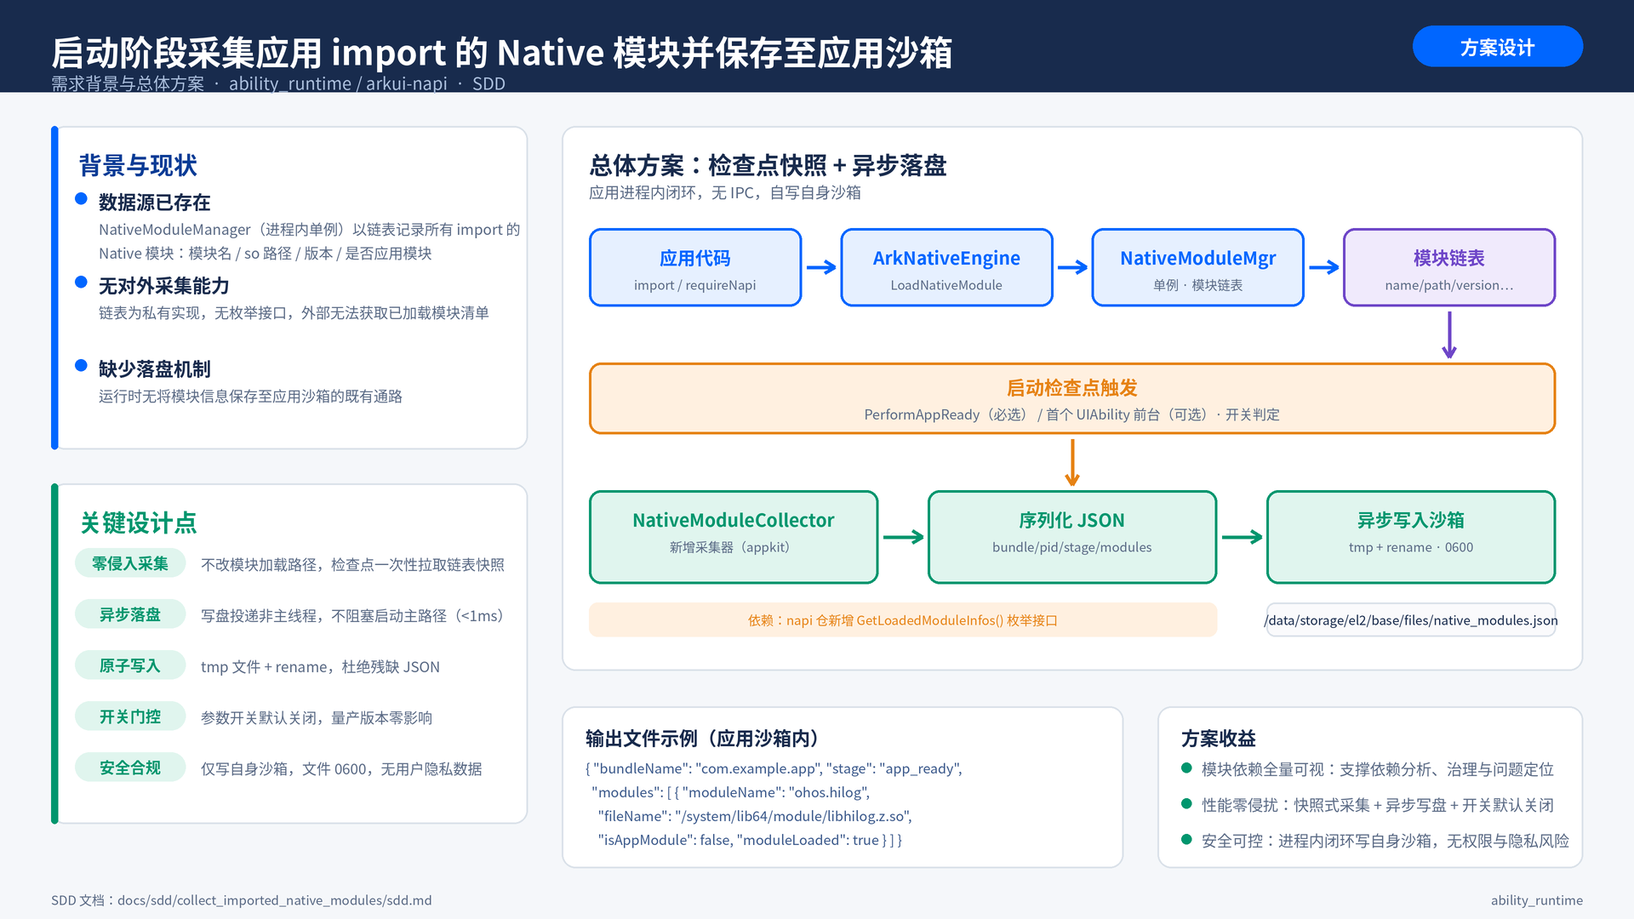
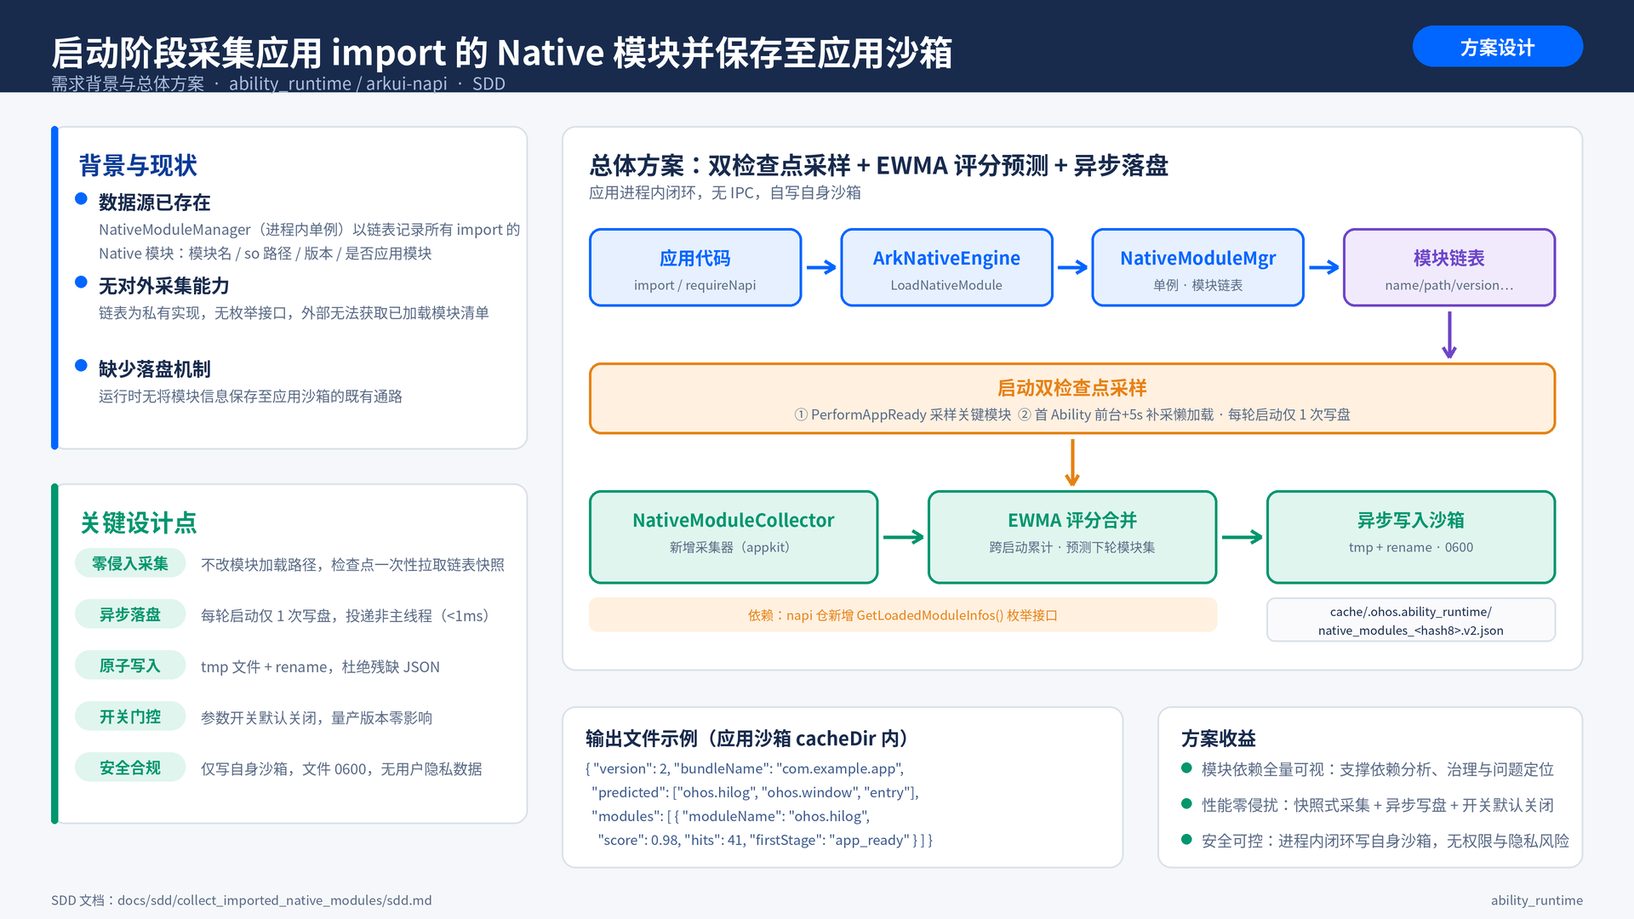
docs: refine SDD v2 - cacheDir storage, anti-collision naming, EWMA update strategy
- 输出位置由 files 改为 cacheDir（可重建的预测性缓存语义）
- 文件名防冲突：.ohos.ability_runtime/native_modules_<processHash8>.v2.json
- 新增跨启动更新与预测策略：双检查点采样 + EWMA 评分合并 + 阈值预测集，
  每轮启动仅 1 次原子写盘；应用升级/文件损坏/缓存清理均兜底重建
- 同步更新 TDD 用例（评分合并、衰减淘汰、升级重置等 13 项策略用例）
- 同步更新 SVG/PNG 方案图

AI[100%] Human Fixed[0%] Human[0%] AI Adopted[100%]

diff --git a/docs/sdd/collect_imported_native_modules/sdd.md b/docs/sdd/collect_imported_native_modules/sdd.md
@@ -1,10 +1,13 @@
 # SDD：启动阶段采集应用 import 的 Native 模块并保存至应用沙箱
 
+> 版本：v2（2026-07-27）
+> 变更：输出位置改为 cacheDir、文件名防冲突设计、新增跨启动更新与预测策略
+
 ## 1. 需求分析
 
 ### 1.1 需求描述
 
-在应用**启动阶段**，通过 `NativeModuleManager`（进程内单例，位于 `foundation/arkui/napi`）采集该应用进程 `import`/`requireNapi` 加载过的所有 Native 模块信息，并以文件形式保存到**应用自身沙箱**目录。
+在应用**启动阶段**，通过 `NativeModuleManager`（进程内单例，位于 `foundation/arkui/napi`）采集该应用进程 `import`/`requireNapi` 加载过的所有 Native 模块信息，保存到**应用自身沙箱 cacheDir**；文件按**跨启动更新策略**维护，使其内容尽可能准确**预测下一次启动将加载的模块集合**。
 
 ### 1.2 现状与可行性
 
@@ -14,42 +17,48 @@
 | 枚举接口 | **无对外枚举接口**，链表头尾指针是 private 成员 | 需新增 public API（跨仓修改 `arkui/napi`） |
 | import 入口 | 所有 import 均汇聚到 `ArkNativeEngine::LoadNativeModule` → `NativeModuleManager::LoadNativeModule`（系统模块 + 应用模块同路径） | 单点覆盖全部 import 行为 |
 | 写入者 | 沙箱属应用自身，NativeModuleManager 在应用进程内 | **无需 IPC**，应用进程自写自身沙箱，无权限问题 |
-| 沙箱路径 | 框架侧可经 `ContextDeal::GetDataDir()` / `ContextImpl::GetBaseDir()` 得 `/data/storage/el2/base`；已有先例：`DumpRuntimeHelper` 写 `/data/storage/el2/base/cache` | 路径获取方式成熟 |
+| cacheDir 获取 | `ContextImpl::GetCacheDir()`（`context_impl.cpp:167`）→ `/data/storage/el2/base/cache`；已有先例：`DumpRuntimeHelper` 写该目录 | 路径获取方式成熟 |
 | 启动阶段锚点 | `MainThread::HandleLaunchApplication` → `Runtime::Create` → `ApplicationImpl::PerformAppReady()`（`application_impl.cpp:51`，状态转 `APP_STATE_READY`） | 有明确的"启动完成"回调点 |
 
-### 1.3 关键需求决策点（需明确）
+### 1.3 需求决策点（v2 已确认）
 
-1. **采集时点**：模块是**按需懒加载**的——`PerformAppReady` 时只有启动链路加载的模块，首个 Ability `onWindowStageCreate` 后才有 UI 相关模块。建议定义为"启动阶段结束 = 首个 UIAbility 前台后"，或分两次采集（ready 时 + 首个 ability 前台时）合并写盘。
-2. **预加载（preload/fork）语义**：`ETSRuntime::PreFork` 在预孵化进程加载的系统模块会被 fork 进每个应用进程。"应用 import 过的模块"是否包含这些？建议全量记录（它们确实在应用进程地址空间内），但可增加 `isPreloaded` 区分标记（fork 前快照计数，fork 后比对）。
-3. **文件格式与位置**：建议 JSON，路径 `/data/storage/el2/base/files/native_modules.json`（或 `cache/` 下，视是否允许系统清理而定）。
-4. **开关**：必须有参数/特性开关门控，默认关闭或仅 debug 版本开启，避免影响量产版本启动性能。
+| # | 决策点 | v2 结论 |
+|---|--------|---------|
+| 1 | 保存位置 | **cacheDir**（`/data/storage/el2/base/cache/`）——数据本质是"可重建的预测性缓存"，语义与 cache 一致；系统清理后下一轮启动重建，无功能损失 |
+| 2 | 文件命名 | **复杂化、系统托管风格**：隐藏点目录 + 命名空间 + 进程哈希 + 格式版本，见 3.2 |
+| 3 | 采集时点 | 双检查点采样：PerformAppReady（启动关键模块）+ 首个 UIAbility 前台后延迟/首次后台（懒加载模块），**每轮启动仅 1 次原子写盘** |
+| 4 | 更新策略 | **EWMA 评分 + 阈值预测**，跨启动增量合并，见 3.4 |
+| 5 | preload 语义 | 全量记录（预加载模块确实在应用进程地址空间），不区分来源 |
+| 6 | 开关 | 参数开关门控，默认关闭或仅 debug 版本开启 |
 
 ### 1.4 约束
 
 - **跨仓依赖**：核心数据源在 `foundation/arkui/napi`，ability_runtime 无法独立完成，需 napi 仓先合入枚举接口。
-- **性能**：采集+写盘必须异步（投递到非主线程或延迟任务），不得阻塞启动主路径。
+- **性能**：采集与写盘必须异步（投递到非主线程），每轮启动至多 1 次落盘，不得阻塞启动主路径。
 - **安全**：仅写自身沙箱；文件权限 `0600`；不写敏感信息（路径属公开信息，风险低）。
+- **可重建**：文件必须允许被系统缓存清理删除，删除后按冷启动逻辑重建，不得影响功能。
 
 ## 2. 总体设计
 
 ```
-应用进程
-┌─────────────────────────────────────────────────────┐
-│ MainThread::HandleLaunchApplication                  │
-│   └─ Runtime::Create → JsRuntime/ETSRuntime 初始化   │
-│        └─ requireNapi 绑定 → ArkNativeEngine          │
-│             └─ NativeModuleManager::LoadNativeModule │  ← 模块进链表（现有行为）
-│                                                      │
-│ PerformAppReady / 首个Ability前台  ──触发──►          │
-│   NativeModuleCollector（新增，appkit 侧）            │
-│     ├─ NativeModuleManager::GetLoadedModuleInfos()   │  ← napi 仓新增 API
-│     ├─ 序列化为 JSON                                  │
-│     └─ 异步写 /data/storage/el2/base/files/          │
-│         native_modules.json（tmp + rename 原子写）    │
-└─────────────────────────────────────────────────────┘
+应用进程（每轮启动）
+┌────────────────────────────────────────────────────────────┐
+│ Runtime::Create → requireNapi → ArkNativeEngine             │
+│   └─ NativeModuleManager::LoadNativeModule → 模块链表（现有） │
+│                                                             │
+│ 检查点① PerformAppReady ──► Collector 采样（stage=app_ready）│
+│ 检查点② 首Ability前台+延迟/首次后台 ──► 采样（stage=late）    │
+│                                                             │
+│ NativeModuleCollector（新增，appkit 侧）                     │
+│   ├─ NativeModuleManager::GetLoadedModuleInfos()  ← napi 新增│
+│   ├─ 读取旧 native_modules 文件 → EWMA 评分合并（3.4）        │
+│   ├─ 预计算 predicted 预测集（score ≥ 阈值）                  │
+│   └─ 异步原子写 cacheDir/.ohos.ability_runtime/             │
+│       native_modules_<processHash>.v2.json（tmp + rename）   │
+└────────────────────────────────────────────────────────────┘
 ```
 
-**方案要点**：不改动加载路径、不加每次加载的钩子（零性能侵入），仅在检查点**一次性拉取**链表快照并异步落盘。
+**方案要点**：不改动加载路径、不加加载钩子（零性能侵入）；检查点快照采样；跨启动评分合并使文件收敛为"高置信预测集"。
 
 ## 3. 详细设计
 
@@ -81,75 +90,193 @@ public:
 ```cpp
 class NativeModuleCollector {
 public:
-    // 在启动检查点调用；内部判开关、取沙箱路径、异步写盘
-    static void CollectAndSave(const std::string& dataDir);
+    // 检查点①：采样并缓存启动关键模块（不写盘）
+    static void SampleAtAppReady();
+    // 检查点②：采样懒加载模块，合并评分，异步原子写盘（每轮启动唯一写盘）
+    static void CollectMergeAndSave();
 private:
-    static bool IsEnabled();              // 读参数/特性开关
-    static std::string Serialize(const std::vector<NativeModuleInfo>& infos);
+    struct ModuleStat;                // 评分条目，见 3.4
+    static bool IsEnabled();          // 参数/特性开关
+    static std::string GetStorePath();// cacheDir + 防冲突文件名，见 3.2
+    static bool LoadStats(std::map<std::string, ModuleStat>& stats, int64_t& appVer);
+    static void MergeRound(const std::vector<NativeModuleInfo>& round,
+                           std::map<std::string, ModuleStat>& stats);
+    static std::string Serialize(const std::map<std::string, ModuleStat>& stats);
     static bool WriteAtomic(const std::string& path, const std::string& content);
 };
 ```
 
-### 3.2 输出文件格式
+### 3.2 输出位置与文件命名（v2 变更）
 
-`/data/storage/el2/base/files/native_modules.json`：
+**目录**：`Context::GetCacheDir()` →
 
-```json
-{
-  "bundleName": "com.example.app",
-  "pid": 12345,
-  "collectTime": 1753507200000,
-  "stage": "app_ready",
-  "modules": [
-    {
-      "moduleName": "ohos.hilog",
-      "name": "hilog",
-      "fileName": "/system/lib64/module/libhilog.z.so",
-      "version": 1,
-      "isAppModule": false,
-      "moduleLoaded": true
-    },
-    {
-      "moduleName": "entry",
-      "name": "entry",
-      "fileName": "/data/storage/el1/bundle/entry/libs/arm64/libentry.so",
-      "version": 1,
-      "isAppModule": true,
-      "moduleLoaded": true
-    }
-  ]
-}
+| 应用类型 | 实际路径 |
+|---------|---------|
+| 普通应用 | `/data/storage/el2/base/cache/` |
+| 系统应用 | `/data/app/el2/<userId>/base/<bundleName>/cache/` |
+
+**文件名**：
+
+```
+<cacheDir>/.ohos.ability_runtime/native_modules_<processHash8>.v2.json
 ```
 
-### 3.3 触发点与时序
+防冲突设计（与开发者文件隔离）：
+
+| 设计 | 作用 |
+|------|------|
+| 点前缀隐藏目录 `.ohos.ability_runtime/` | 明确"系统托管文件"语义；开发者约定不使用的命名空间；常规文件浏览不可见 |
+| `native_modules_` 前缀 + 模块语义 | 可读性，便于调试定位 |
+| `<processHash8>` 进程名哈希（FNV-1a，8 位 hex） | 多进程应用（:remote 等子进程）各自采集互不覆盖；避免超长进程名撑爆文件名 |
+| `.v2` 格式版本后缀 | 格式演进时新旧文件天然隔离，解析方按版本路由 |
+| 文件权限 `0600` | 仅应用自身可读写 |
+
+**cache 语义**：系统/用户清理缓存后文件丢失 → 视为冷启动（3.4），下一轮启动全量重建，预测准确度暂降后随启动轮次快速收敛，无功能损失。
+
+### 3.3 触发点与采样时序
 
 ```
 Runtime::Create (main_thread.cpp:1951)
   → 业务代码执行，模块陆续 import（进链表）
   → PerformAppReady (application_impl.cpp:51)
-      → NativeModuleCollector::CollectAndSave()   ← 检查点1（标记 stage=app_ready）
-  → 首个 UIAbility 前台（可选检查点2，增量合并后重写，stage=first_foreground）
+      → Collector::SampleAtAppReady()        ← 检查点①：内存采样，stage=app_ready
+  → 首个 UIAbility 前台 + 延迟（约 5s）或首次 OnBackground
+      → Collector::CollectMergeAndSave()     ← 检查点②：补采 stage=late，
+                                                 读旧文件 → 评分合并 → 原子写盘
 ```
 
-- 检查点1必选；检查点2视需求 1.3 决策点 1 而定。
-- 写盘投递到非主线程（可参考 `MainThread` 现有 task runner 或新建一次性 detached task）。
-- **preload 场景**：fork 后进程已有预加载模块链表。若需区分，在 `PreFork` 时记录链表节点数快照，`PostFork` 后节点标记为应用期加载；否则全量记录即可。
+- **每轮启动仅 1 次落盘**（检查点②）。①崩溃丢样本可接受（统计模型对单轮缺失鲁棒）。
+- 采样为纯内存操作（持锁遍历链表 + 字符串拷贝），两次合计 < 1ms；写盘投递非主线程。
+- 延迟窗口覆盖首帧后的懒加载模块（UI 组件、图片编解码等通常在 `onWindowStageCreate` 后才 import）。
 
-### 3.4 异常与边界处理
+### 3.4 跨启动更新与预测策略（v2 核心）
+
+**问题**：每次启动加载的模块集合不完全一致——入口场景不同（launcher / deep-link / 卡片）、懒加载时机抖动。单轮快照作为预测会抖动、漏报。
+
+**方案**：跨启动**指数加权移动平均（EWMA）评分**，文件内容从"上一轮快照"演进为"带置信度的预测集"。
+
+#### 数据模型
+
+每个模块维护一个统计条目：
+
+```cpp
+struct ModuleStat {
+    std::string fileName;      // so 路径
+    bool isAppModule;
+    float score;               // ∈ [0,1]，EWMA 命中评分
+    uint32_t hits;             // 累计命中轮数
+    uint32_t lastSeenLaunch;   // 最后一次命中的启动序号
+    uint8_t firstStage;        // 首次出现阶段：app_ready / late
+};
+```
+
+#### 更新算法（每轮启动执行一次）
+
+设本轮实际加载集合为 S_n（检查点① ∪ ②），α = 0.4（约最近 5 轮主导，可调）：
+
+```
+对 m ∈ S_n：        score ← α + (1−α)·score      // 命中奖励，快速逼近 1
+对 m ∈ 历史 \ S_n：  score ← (1−α)·score          // 遗漏衰减，缓慢趋向 0
+lastSeenLaunch 命中时刷新为当前启动序号
+```
+
+#### 预测与淘汰
+
+| 规则 | 内容 |
+|------|------|
+| **预测集** | `predicted = { m \| score ≥ 0.5 }`，写盘时预计算输出，读方零成本直接使用 |
+| **冷启动** | 首轮（无旧文件/文件被清理）：S_1 全部 score=1，直接全量入预测集 |
+| **条目淘汰** | `score < 0.05` 或连续 16 轮未见 → 删除条目，文件规模有界 |
+| **条数上限** | 1024 条，超出按 score 升序淘汰（防御异常膨胀） |
+| **应用升级** | 记录 `appVersionCode`，不一致 → 清空重建（升级后模块集合可能剧变，历史无参考价值） |
+| **损坏兜底** | JSON 解析失败 / version 字段不符 → 丢弃按冷启动重建 |
+
+#### 策略参数（支持系统参数调优）
+
+| 参数 | 默认 | 说明 |
+|------|------|------|
+| α（EWMA 系数） | 0.4 | 越大越"短视"（跟随最近几轮），越小越平滑 |
+| 预测阈值 | 0.5 | 提高则预测集更保守（低误报高漏报） |
+| 淘汰窗口 | 16 轮 | 长期未命中条目清理周期 |
+| 检查点②延迟 | 5 s | 首个 Ability 前台后的补采等待 |
+
+#### 收敛行为示例
+
+- 每轮必载模块：3 轮后 score ≈ 0.94，稳定留在预测集；
+- 偶发模块（30% 概率加载）：score 在 0.3~0.5 间波动，被阈值挡在预测集外（避免误报）；
+- 某版本后不再加载的模块：约 5 轮后 score < 0.1，7~8 轮后淘汰。
+
+#### 准确性验证
+
+beta 期间每轮启动通过 HiLog/HiSysEvent 上报：
+
+- 命中率 `hitRate = |predicted ∩ actual| / |actual|`（目标 ≥ 95%）
+- 误报率 `falseRate = |predicted − actual| / |predicted|`
+
+用于标定 α 与阈值；量产版本关闭上报。
+
+### 3.5 输出文件格式（v2）
+
+`<cacheDir>/.ohos.ability_runtime/native_modules_a1b2c3d4.v2.json`：
+
+```json
+{
+  "version": 2,
+  "bundleName": "com.example.app",
+  "processName": "com.example.app",
+  "appVersionCode": 1000000,
+  "launchIndex": 42,
+  "updatedAt": 1753507200000,
+  "scenario": "launcher",
+  "predicted": ["ohos.hilog", "ohos.window", "entry"],
+  "modules": [
+    {
+      "moduleName": "ohos.hilog",
+      "fileName": "/system/lib64/module/libhilog.z.so",
+      "isAppModule": false,
+      "score": 0.98,
+      "hits": 41,
+      "lastSeenLaunch": 42,
+      "firstStage": "app_ready"
+    },
+    {
+      "moduleName": "entry",
+      "fileName": "/data/storage/el1/bundle/entry/libs/arm64/libentry.so",
+      "isAppModule": true,
+      "score": 1.0,
+      "hits": 42,
+      "lastSeenLaunch": 42,
+      "firstStage": "app_ready"
+    }
+  ]
+}
+```
+
+字段说明：
+
+- `predicted`：按 3.4 阈值预计算的**下轮启动预测模块集**（读方主消费字段）
+- `modules[].score/hits/lastSeenLaunch`：评分状态，跨轮累计
+- `firstStage`：模块首次出现阶段，读方可区分"启动关键"与"懒加载"
+- `scenario`：本轮启动入口场景（launcher/deep-link/card 等），v2 仅记录；后续版本可按场景分桶多份 profile 进一步提升预测准确度（见 5.演进方向）
+
+### 3.6 异常与边界处理
 
 | 场景 | 处理 |
 |------|------|
-| 开关关闭 | 直接返回，零开销 |
-| 沙箱目录不存在 | `mkdirs`，失败记 HiLog 并放弃（不抛错，不影响启动） |
-| 写盘失败 | 记 `TAG_LOGE` + 可选 HiSysEvent 故障事件（参考 `preload_so_startup_task.cpp:134` 的 `EventReport` 模式） |
-| 模块链表为空 | 写空 `modules: []`（合法输出，便于排查） |
-| 文件体积 | 模块数量级为数十~数百，KB 级，无需截断；但建议设上限（如 1MB）防御异常膨胀 |
-| 并发 | 写盘用 `tmp 文件 + rename` 保证原子性；同进程多次检查点写同一文件，后写覆盖 |
+| 开关关闭 | 直接返回，零开销（不采样、不读写） |
+| cacheDir 不存在 | `CreateDirIfNotExist`（含 `.ohos.ability_runtime` 子目录），失败记 HiLog 放弃，不影响启动 |
+| 文件被缓存清理 | 视为冷启动，首轮全量重建 |
+| JSON 损坏 / version 不符 | 丢弃旧数据，按冷启动重建 |
+| 应用升级（appVersionCode 变化） | 清空历史重建 |
+| 写盘失败 | 记 `TAG_LOGE` + HiSysEvent 故障事件（参考 `preload_so_startup_task.cpp:134` 的 `EventReport` 模式）；旧文件保持原样（tmp+rename 保证） |
+| 多进程并发 | 各进程写各自 `<processHash8>` 文件，无共享文件竞争 |
+| 文件体积 | 条目上限 1024 + 淘汰规则，稳态约数十~数百 KB 级以内（实测通常 < 100KB） |
 
-### 3.5 安全与隐私
+### 3.7 安全与隐私
 
-- 仅写应用自身沙箱，无越权访问；文件 `chmod 0600`。
-- 不采集任何用户数据，仅模块名/路径/版本，属系统公开信息。
+- 仅写应用自身沙箱，无越权访问；文件 `0600`。
+- 隐藏点目录 + 系统命名空间，不与开发者文件冲突，也不会被开发者误删依赖。
+- 不采集任何用户数据，仅模块名/路径/版本/统计计数，属系统公开信息。
 - 开关默认关闭时无任何行为变化，对存量应用零影响。
 
 ## 4. 测试设计（TDD）
@@ -158,24 +285,44 @@ Runtime::Create (main_thread.cpp:1951)
 
 | 用例 | 验证点 |
 |------|--------|
-| `CollectAndSave_Success` | mock 沙箱目录，注入若干 NativeModuleInfo，断言 JSON 文件生成且字段完整 |
-| `CollectAndSave_Disabled` | 开关关闭时不产生文件 |
-| `Serialize_FieldMapping` | `moduleName/name/fileName/isAppModule` 等字段序列化正确 |
-| `WriteAtomic_PartialFailure` | 模拟写入失败，不产生残缺 JSON（tmp 残留可容忍，正式文件不出现） |
-| `CollectAndSave_EmptyList` | 空链表输出合法空 JSON |
-| `GetLoadedModuleInfos_Snapshot`（napi 仓测试） | 枚举结果与 `Register`/`LoadNativeModule` 后的链表一致，且为深拷贝（原节点释放后快照仍有效） |
+| **基础采集** | |
+| `CollectAndSave_Success` | mock cacheDir，注入若干 NativeModuleInfo，断言 JSON 生成且字段完整（含 score/predicted） |
+| `CollectAndSave_Disabled` | 开关关闭时不采样、不产生文件 |
+| `SampleAtAppReady_NoWrite` | 检查点① 只内存采样，不落盘 |
+| **文件命名与位置** | |
+| `GetStorePath_CacheDir` | 路径为 cacheDir 下 `.ohos.ability_runtime/` 子目录 |
+| `GetStorePath_ProcessHash` | 不同进程名生成不同 `<processHash8>`；同进程名哈希稳定 |
+| `FileName_NoCollision` | 文件名含 `.v2` 版本后缀与点前缀目录，不与开发者常见命名冲突 |
+| **更新与预测策略** | |
+| `Merge_ColdStart` | 无旧文件时首轮 score=1，predicted 为全量 |
+| `Merge_HitReward` | 连续命中模块 score 单调逼近 1（验证 EWMA 公式） |
+| `Merge_MissDecay` | 未命中模块 score 按 (1−α) 衰减 |
+| `Predict_Threshold` | score 跨越 0.5 阈值时 predicted 集合正确增删 |
+| `Evict_LowScore` | score < 0.05 条目被淘汰 |
+| `Evict_LongUnseen` | 连续 16 轮未见条目被淘汰 |
+| `Evict_CapLimit` | 超过 1024 条时按 score 升序淘汰 |
+| `Reset_OnAppUpgrade` | appVersionCode 变化时历史清空重建 |
+| `Rebuild_OnCorruptedJson` | 损坏 JSON / version 不符时按冷启动重建 |
+| `Rebuild_AfterCacheClean` | 文件被删除后下轮正常重建 |
+| **写盘可靠性** | |
+| `WriteAtomic_PartialFailure` | 模拟写失败，正式文件不出现残缺内容 |
+| `WriteAtomic_Permission` | 生成文件权限为 0600 |
+| **napi 仓** | |
+| `GetLoadedModuleInfos_Snapshot` | 枚举结果与链表一致，深拷贝（原节点释放后快照有效） |
 
-## 5. 风险与依赖
+## 5. 风险、依赖与演进方向
 
 | 项 | 说明 |
 |----|------|
 | **跨仓依赖（最大风险）** | 需 `foundation/arkui/napi` 先合入 `NativeModuleInfo` + `GetLoadedModuleInfos`。建议与 napi 仓 owner 对齐接口形态后再启动 ability_runtime 侧开发 |
-| 启动性能 | 采集在检查点一次性执行 + 异步写盘，预估主线程开销 < 1ms（仅链表遍历拷贝），量产版本默认关闭 |
-| 语义歧义 | "启动阶段"结束点、preload 模块归属两点需与需求方书面确认（1.3 节） |
-| 多进程应用 | 每个进程各自采集，文件名建议带进程名后缀（如 `native_modules_<processName>.json`）避免互相覆盖 |
+| 启动性能 | 两次内存采样 < 1ms + 每轮 1 次异步写盘，量产版本默认关闭 |
+| 预测准确度 | EWMA 对"强场景分化"应用（如卡片入口与桌面入口模块集差异大）存在上限；演进方向：按 `scenario` 分桶保存多份 profile，按 launch reason 选用（v3 候选） |
+| 缓存清理 | 清理后预测冷启动重建，前 1~2 轮预测偏弱，随后快速收敛；属可接受语义 |
+| 多进程 | 每进程独立文件（`<processHash8>` 隔离），主进程文件可代表主场景 |
 
 ## 6. 下一步
 
-1. 确认 1.3 节决策点（采集时点、preload 语义、是否默认开启）。
-2. napi 仓合入枚举接口。
-3. ability_runtime 侧实现 `NativeModuleCollector` + 检查点接入 + TDD 用例。
+1. 与 napi 仓 owner 对齐 `GetLoadedModuleInfos` 接口形态。
+2. ability_runtime 侧实现 `NativeModuleCollector`（采样 + EWMA 合并 + 原子写）+ 双检查点接入。
+3. 按第 4 节落地 TDD 用例。
+4. beta 版本开启命中率上报，标定 α / 阈值后固化参数。
